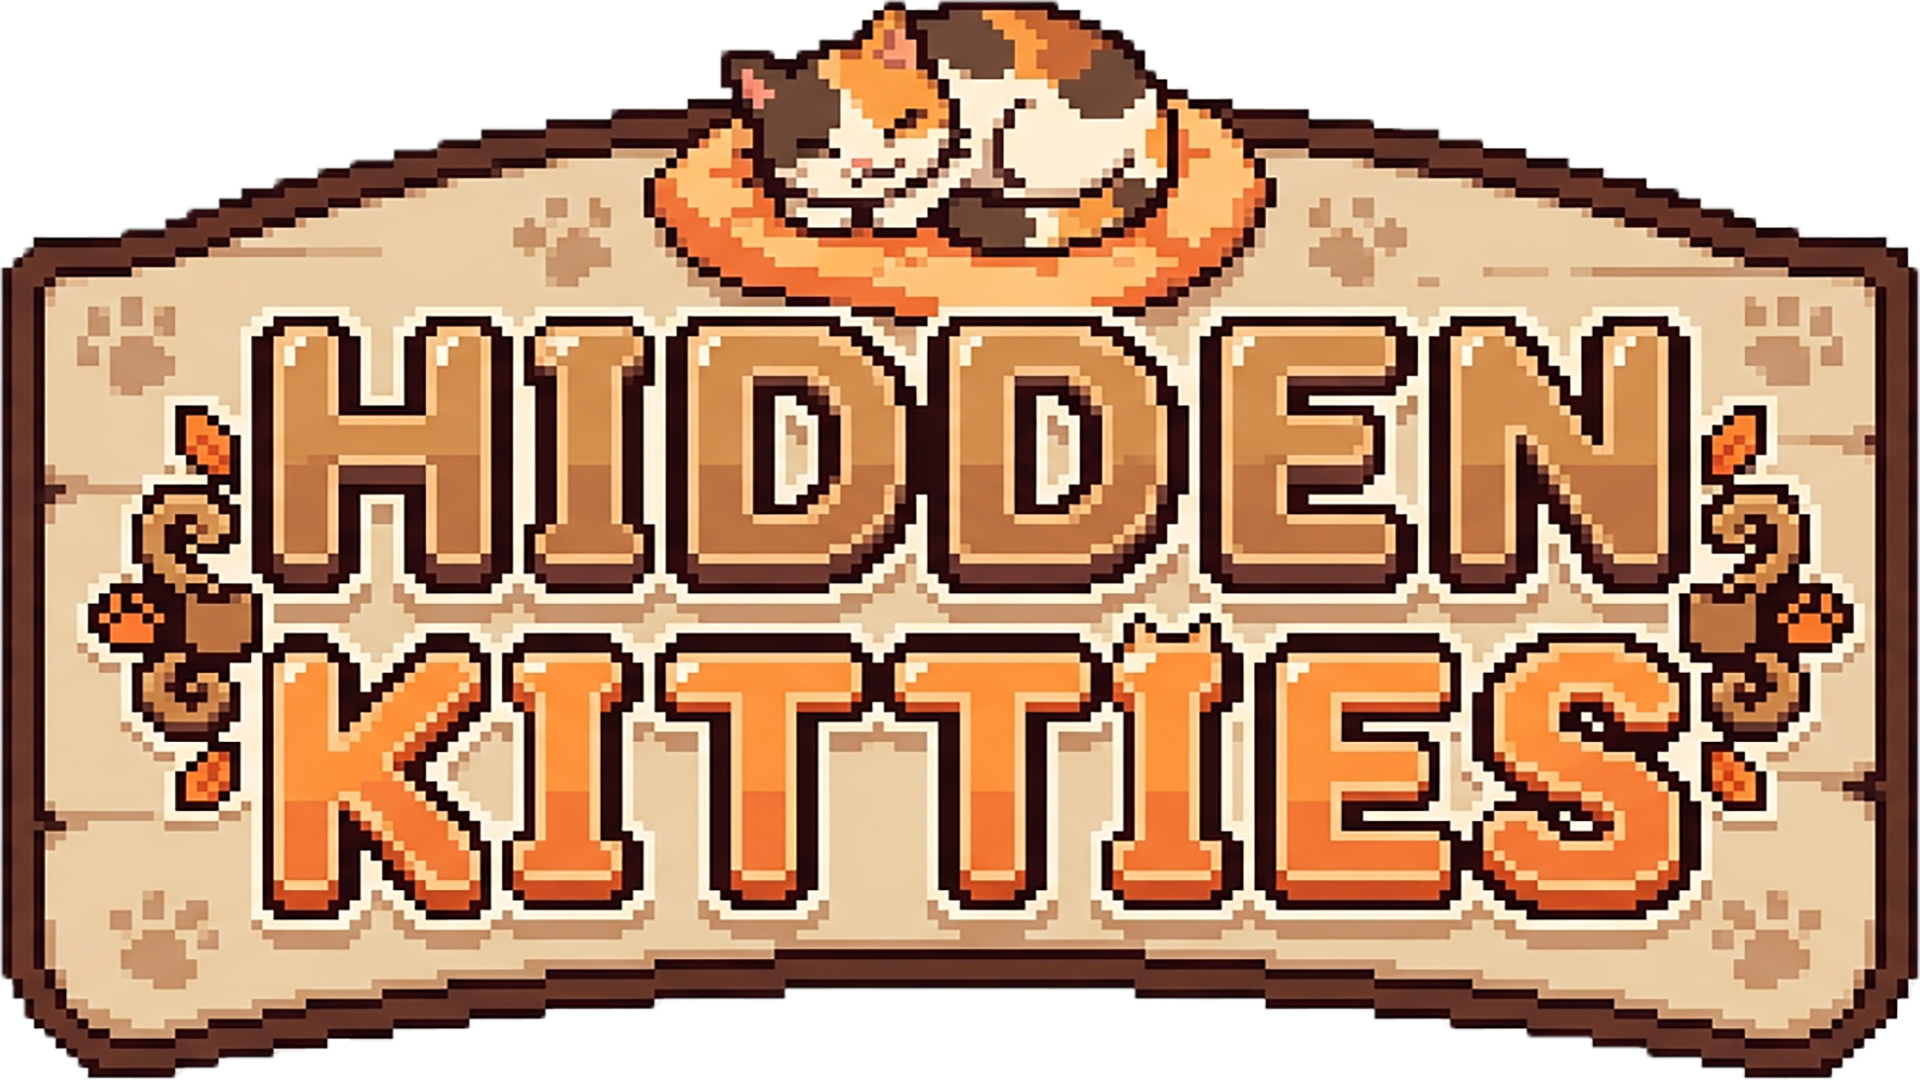
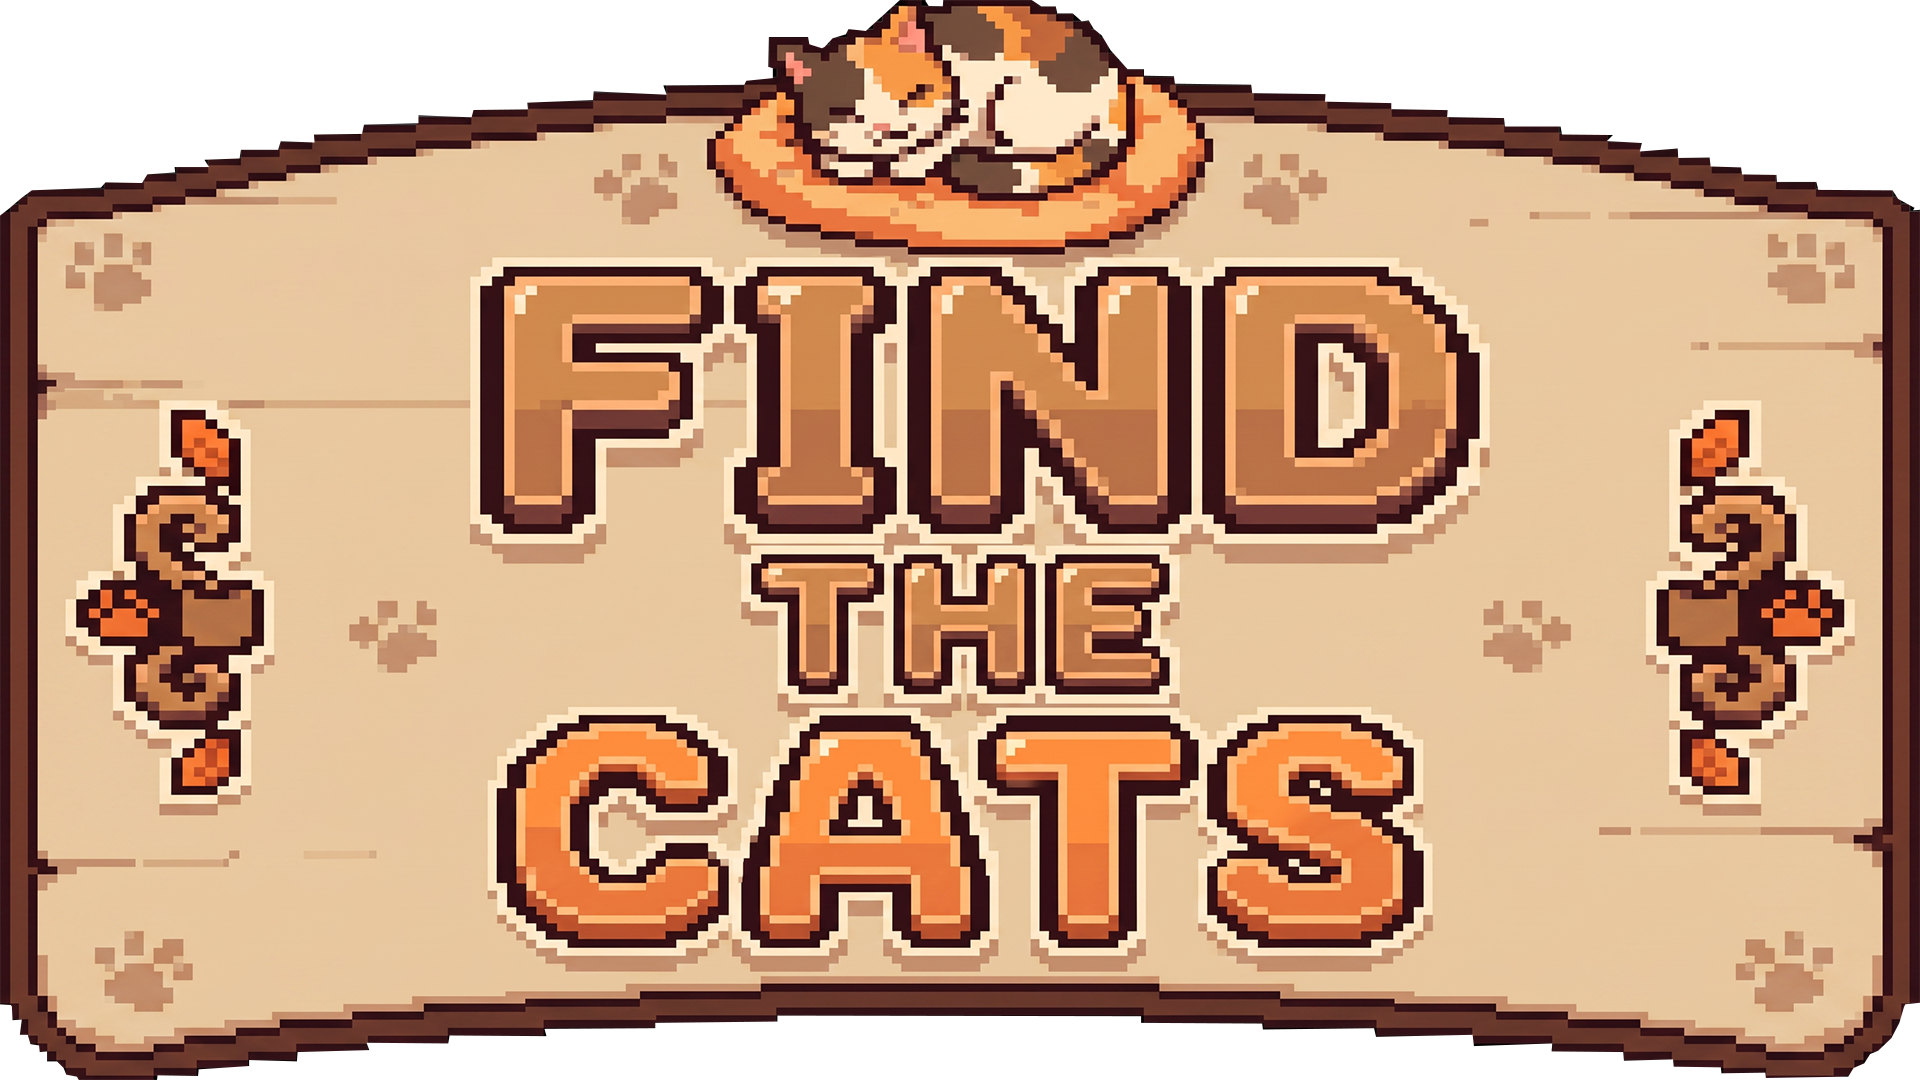
treasures implementation

diff --git a/css/treasurelost.css b/css/treasurelost.css
@@ -1,0 +1,119 @@
+body { 
+    background-image: url(../IMG/treasures.png) !important;
+    background-size: cover;        /* Ajusta para cobrir a tela */
+    background-position: center;   /* Centraliza */
+    background-repeat: no-repeat;  /* Não repetir */
+    height: 100vh;                 /* Ocupa a tela toda */
+    opacity: 98%;
+    background-color: black;
+
+}
+
+
+
+
+
+#text1 {
+    position: absolute;       
+    bottom: -60px;            
+    font-size: 70px;
+    font-weight: bolder;
+    color: rgb(134, 68, 3);
+    text-align: center;
+    width: 100%;
+    top:70%;
+    -webkit-text-stroke: 1px rgb(255, 255, 255); /* Borda branca */
+    animation: neonPulse 1.8s infinite ease-in-out;
+}
+@keyframes neonPulse {
+    0%, 100% {
+        text-shadow: 
+           0 0 8px #0a3abd,
+           0 0 16px #0a3abd,
+           0 0 24px #0a3abd;
+        transform: scale(1);
+    }
+    50% {
+        text-shadow: 
+           0 0 12px #0a3abd,
+           0 0 24px #0a3abd,
+           0 0 40px #0a3abd;
+        transform: scale(1.05);
+    }
+}
+
+#footer {
+    color: white;
+}
+
+#game-description {
+  max-width: 800px;
+  margin: 40px auto;
+  font-family: Arial, sans-serif;
+  line-height: 1.6;
+  color: #f5f5f5;
+}
+
+#game-description h2 {
+  text-transform: uppercase;
+  letter-spacing: 3px;
+  font-size: 20px;
+  margin-bottom: 10px;
+  color: #44e4f9; /* combina com a cor do seu COMING SOON */
+  margin-top: 200px;
+}
+
+#game-description p {
+  font-size: 16px;
+  margin-bottom: 100px;
+}
+
+#gallery {
+  display: grid;
+  grid-template-columns: repeat(2, 1fr); /* agora são 2 */
+  gap: 20px;
+  max-width: 900px;
+  margin: 20px auto;
+  margin-top: 200px;
+}
+
+#gallery img {
+  width: 100%;
+  height: 250px;
+  object-fit: cover;
+  border-radius: 10px;
+  box-shadow: 0 0 15px rgba(0,0,0,0.4);
+  transition: transform .3s ease;
+}
+
+#gallery img:hover {
+  transform: scale(1.05);
+}
+
+/* Responsivo no mobile */
+@media (max-width: 768px) {
+  #gallery {
+    grid-template-columns: 1fr; /* só uma por linha */
+    margin-top: -10px;
+    
+  }
+  #game-description  {
+  font-size: 16px;
+  margin-bottom: 100px;
+  margin-left: 30px;
+  margin-right: 30px;
+  margin-top: -100px;
+}
+#text1 {
+    position: absolute;       
+    bottom: -60px;            
+    font-size: 60px;
+    font-weight: bolder;
+    color: #44e4f9;
+    text-align: center;
+    width: 100%;
+    top:70%;
+    -webkit-text-stroke: 1px rgb(255, 255, 255); /* Borda branca */
+    animation: none;
+}
+}

diff --git a/mel/findthecats.html b/mel/findthecats.html
@@ -1,0 +1,66 @@
+<!DOCTYPE html>
+<html lang="pt-br">
+<head>
+    <meta charset="UTF-8">
+    <meta name="viewport" content="width=device-width, initial-scale=1.0">
+    <link rel="icon" href="../IMG/hiddenkitties.png" type="image/jpeg">
+    <link rel="stylesheet" href="../css/mel.css">
+    <link rel="stylesheet" href="../css/reset.css">
+    <link rel="stylesheet" href="../css/preloader.css">
+    <link href="https://fonts.googleapis.com/css2?family=Press+Start+2P&display=swap" rel="stylesheet">
+    <link rel="stylesheet" href="../css/hiddenkitties.css">
+
+    <title>Find The Cats</title>
+</head>
+<body>
+    <div id="preloader">
+        <div class="loader-box">
+          <div class="loader-title">
+            <img src="../IMG/hiddenkitties.png" style="max-width:300px"></img>
+          </div>
+          <div class="progress-bar">
+            <div class="progress-fillhidden" id="progress-fillhidden"></div>
+          </div>
+          <div class="progress-text" id="progress-text">0%</div>
+        </div>
+      </div>
+
+
+    <header>
+    <div class="intro">
+        
+        <img class="logo" src="../IMG/hiddenkitties.png" alt="" srcset="">
+        
+        <a href="../index.html">
+        <img class="ember" src="../IMG/logomarca_-_sem_background.png" alt="">
+        </a>
+    </div>
+    <h1 id="text1">Available now<br>Xbox One, Xbox Series, Windows, PlayStation 4 and PlayStation 5</h1>
+    </header>
+    <div>
+      <section id="gallery">
+  <img src="../IMG/bg2n.png" alt="Gameplay 1">
+  <img src="../IMG/16.png" alt="Gameplay 2">
+  <img src="../IMG/18.png" alt="Gameplay 3">
+  <img src="../IMG/14.png" alt="Gameplay 4">
+</section>
+    <section id="game-description">
+  <h2>About the Game</h2>
+  <p>
+    Find The Cats is a charming hand-drawn hidden object game where players must find cleverly concealed cats across beautifully illustrated scenes. Each level challenges observation skills and attention to detail, rewarding fast players with a star if all cats are found within 15 seconds.
+    With 30 handcrafted levels and 10 hidden cats per stage, the game offers quick, satisfying gameplay sessions that are easy to pick up but hard to master. Its cozy art style and fast-paced challenge create a highly replayable experience that appeals to both casual players and completionists.
+  </p>
+</section>
+
+
+    </div>
+
+</body>
+<div class="footer">
+<footer id="footer">&copy; 2026 Ember Box Studio. All rights reserved.</footer>
+</div>
+
+<script src="../preloaderhidden.js"></script>
+
+
+</html>

diff --git a/mel/treasurehunttales.html b/mel/treasurehunttales.html
@@ -1,0 +1,66 @@
+<!DOCTYPE html>
+<html lang="pt-br">
+<head>
+    <meta charset="UTF-8">
+    <meta name="viewport" content="width=device-width, initial-scale=1.0">
+    <link rel="icon" href="../IMG/treasurehunttales.png" type="image/jpeg">
+    <link rel="stylesheet" href="../css/mel.css">
+    <link rel="stylesheet" href="../css/reset.css">
+    <link rel="stylesheet" href="../css/preloader.css">
+    <link href="https://fonts.googleapis.com/css2?family=Press+Start+2P&display=swap" rel="stylesheet">
+    <link rel="stylesheet" href="../css/treasurelost.css">
+
+    <title>Treasure Hunt Tales</title>
+</head>
+<body>
+    <div id="preloader">
+        <div class="loader-box">
+          <div class="loader-title">
+            <img src="../IMG/treasurehunttales.png" style="max-width:300px"></img>
+          </div>
+          <div class="progress-bar">
+            <div class="progress-fillhidden" id="progress-fillhidden"></div>
+          </div>
+          <div class="progress-text" id="progress-text">0%</div>
+        </div>
+      </div>
+
+
+    <header>
+    <div class="intro">
+        
+        <img class="logo" src="../IMG/treasurehunttales.png" alt="" srcset="">
+        
+        <a href="../index.html">
+        <img class="ember" src="../IMG/logomarca_-_sem_background.png" alt="">
+        </a>
+    </div>
+    <h1 id="text1">Coming soon...</h1>
+    </header>
+    <div>
+      <section id="gallery">
+  <img src="../IMG/bg2n.png" alt="Gameplay 1">
+  <img src="../IMG/16.png" alt="Gameplay 2">
+  <img src="../IMG/18.png" alt="Gameplay 3">
+  <img src="../IMG/14.png" alt="Gameplay 4">
+</section>
+    <section id="game-description">
+  <h2>About the Game</h2>
+  <p>
+    Treasure Hunt Tales is a charming hand-drawn hidden object game where players must find cleverly concealed treasures across beautifully illustrated scenes. Each level challenges observation skills and attention to detail, rewarding fast players with a star if all treasures are found within 15 seconds.
+    With 30 handcrafted levels and 10 hidden treasures per stage, the game offers quick, satisfying gameplay sessions that are easy to pick up but hard to master. Its cozy art style and fast-paced challenge create a highly replayable experience that appeals to both casual players and completionists.
+  </p>
+</section>
+
+
+    </div>
+
+</body>
+<div class="footer">
+<footer id="footer">&copy; 2026 Ember Box Studio. All rights reserved.</footer>
+</div>
+
+<script src="../preloaderpiratesleo.js"></script>
+
+
+</html>

diff --git a/preloaderpiratesleo.js b/preloaderpiratesleo.js
@@ -1,0 +1,20 @@
+document.addEventListener("DOMContentLoaded", () => {
+    const fill = document.getElementById("progress-fillhidden");
+    const text = document.getElementById("progress-text");
+    const preloader = document.getElementById("preloader");
+  
+    let progress = 0;
+    const interval = setInterval(() => {
+      progress += 1;
+      fill.style.width = `${progress}%`;
+      text.textContent = `${progress}%`;
+  
+      if (progress >= 100) {
+        clearInterval(interval);
+        setTimeout(() => {
+          preloader.classList.add("fade-out");
+        }, 300); // Pequeno delay antes do fade iniciar
+      }
+    }, 20); // 100 * 20ms = 2s
+  });
+  

diff --git a/index.html b/index.html
@@ -73,7 +73,13 @@
                 </ul>
                 <ul class="nav flex-column">
                     <li id="mel" class="nav-item">
-                        <a class="nav-link text-white" href="./mel/hiddenkitties.html" ><img id="melcat" src="./IMG/hiddenkitties.png" alt="" srcset=""></a>
+                        <a class="nav-link text-white" href="./findthecats.html" ><img id="melcat" src="./IMG/hiddenkitties.png" alt="" srcset=""></a>
+                    </li>
+                    
+                </ul>
+                <ul class="nav flex-column">
+                    <li id="mel" class="nav-item">
+                        <a class="nav-link text-white" href="./treasurehunttales.html" ><img id="melcat" src="./IMG/treasurehunttales.png" alt="" srcset=""></a>
                     </li>
                     
                 </ul>

diff --git a/mel/melthepyramidcat.html b/mel/melthepyramidcat.html
@@ -3,7 +3,7 @@
 <head>
     <meta charset="UTF-8">
     <meta name="viewport" content="width=device-width, initial-scale=1.0">
-    <link rel="icon" href="../IMG/hiddenkitties.png" type="image/jpeg">
+    <link rel="icon" href="../IMG/MelLogoEgipt.png" type="image/jpeg">
     <link rel="stylesheet" href="../css/mel.css">
     <link rel="stylesheet" href="../css/reset.css">
     <link rel="stylesheet" href="../css/preloader.css">
@@ -35,7 +35,7 @@
         <img class="ember" src="../IMG/logomarca_-_sem_background.png" alt="">
         </a>
     </div>
-    <h1 id="text1">Coming Soon</h1>
+    <h1 id="text1">Available now<br>Xbox One, Xbox Series, Windows, PlayStation 4 and PlayStation 5</h1>
     </header>
     <div>
       <section id="gallery">